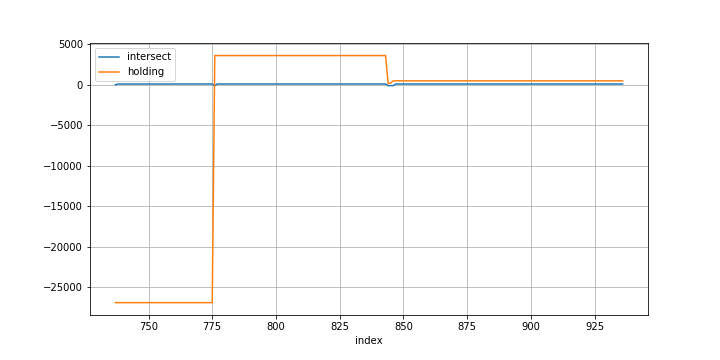
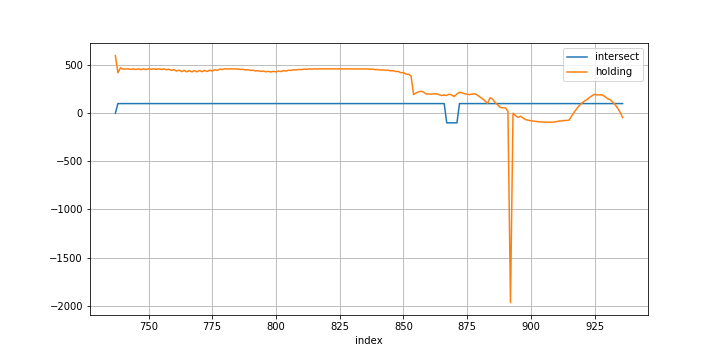
bug fix

diff --git a/FitnessFunction.py b/FitnessFunction.py
@@ -138,13 +138,13 @@ class FitnessFunction:
                 if self.DfFitness.iloc[IndividualCount]['holding'] != 0:
                     if (TmpDfFitness.iloc[IndividualCount]['holding'] == 0) or ((TmpDfFitness.iloc[IndividualCount]['holding'] * self.DfFitness.iloc[IndividualCount]['holding']) < 0):
                         #close previous position
-                        TmpDfFitness.iloc[IndividualCount]['profit'] = self.DfFitness.iloc[IndividualCount]['profit'] + self.DfFitness.iloc[IndividualCount]['holding'] * (currentTradePrice  - self.DfFitness.iloc[IndividualCount]['lastTradeValue'])
+                        TmpDfFitness.iloc[IndividualCount]['profit'] = self.DfFitness.iloc[IndividualCount]['profit'] + 25*self.DfFitness.iloc[IndividualCount]['holding'] * (currentTradePrice  - self.DfFitness.iloc[IndividualCount]['lastTradeValue'])
                         TmpDfFitness.iloc[IndividualCount]['lastTradeValue'] =  currentTradePrice
                         flag[IndividualCount]=1
                     else:
                         #calculate profit if holding has same sign
                         if abs(TmpDfFitness.iloc[IndividualCount]['holding']) < abs(self.DfFitness.iloc[IndividualCount]['holding']):
-                            TmpDfFitness.iloc[IndividualCount]['profit'] = self.DfFitness.iloc[IndividualCount]['profit'] + HoldingDiff *(currentTradePrice  - self.DfFitness.iloc[IndividualCount]['lastTradeValue'] )
+                            TmpDfFitness.iloc[IndividualCount]['profit'] = self.DfFitness.iloc[IndividualCount]['profit'] + 25*HoldingDiff *(currentTradePrice  - self.DfFitness.iloc[IndividualCount]['lastTradeValue'] )
                             TmpDfFitness.iloc[IndividualCount]['lastTradeValue'] = self.DfFitness.iloc[IndividualCount]['lastTradeValue']
                             flag[IndividualCount]=2
                         else:
